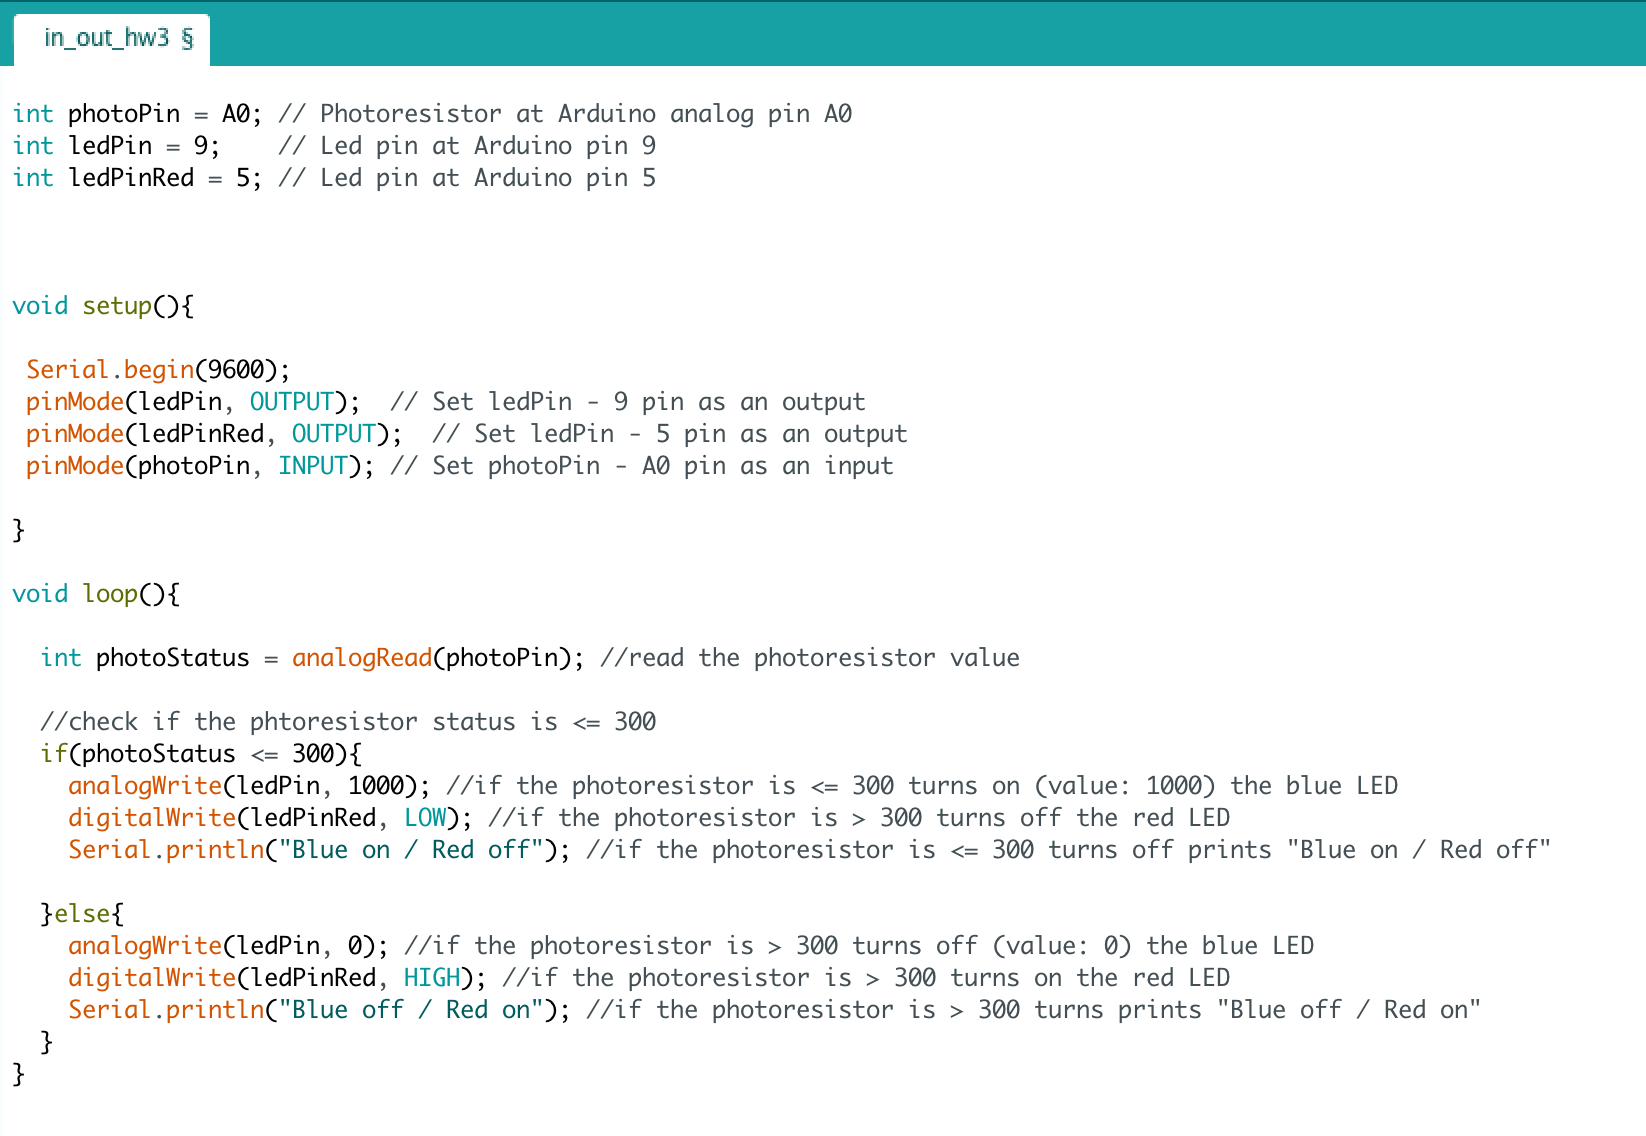
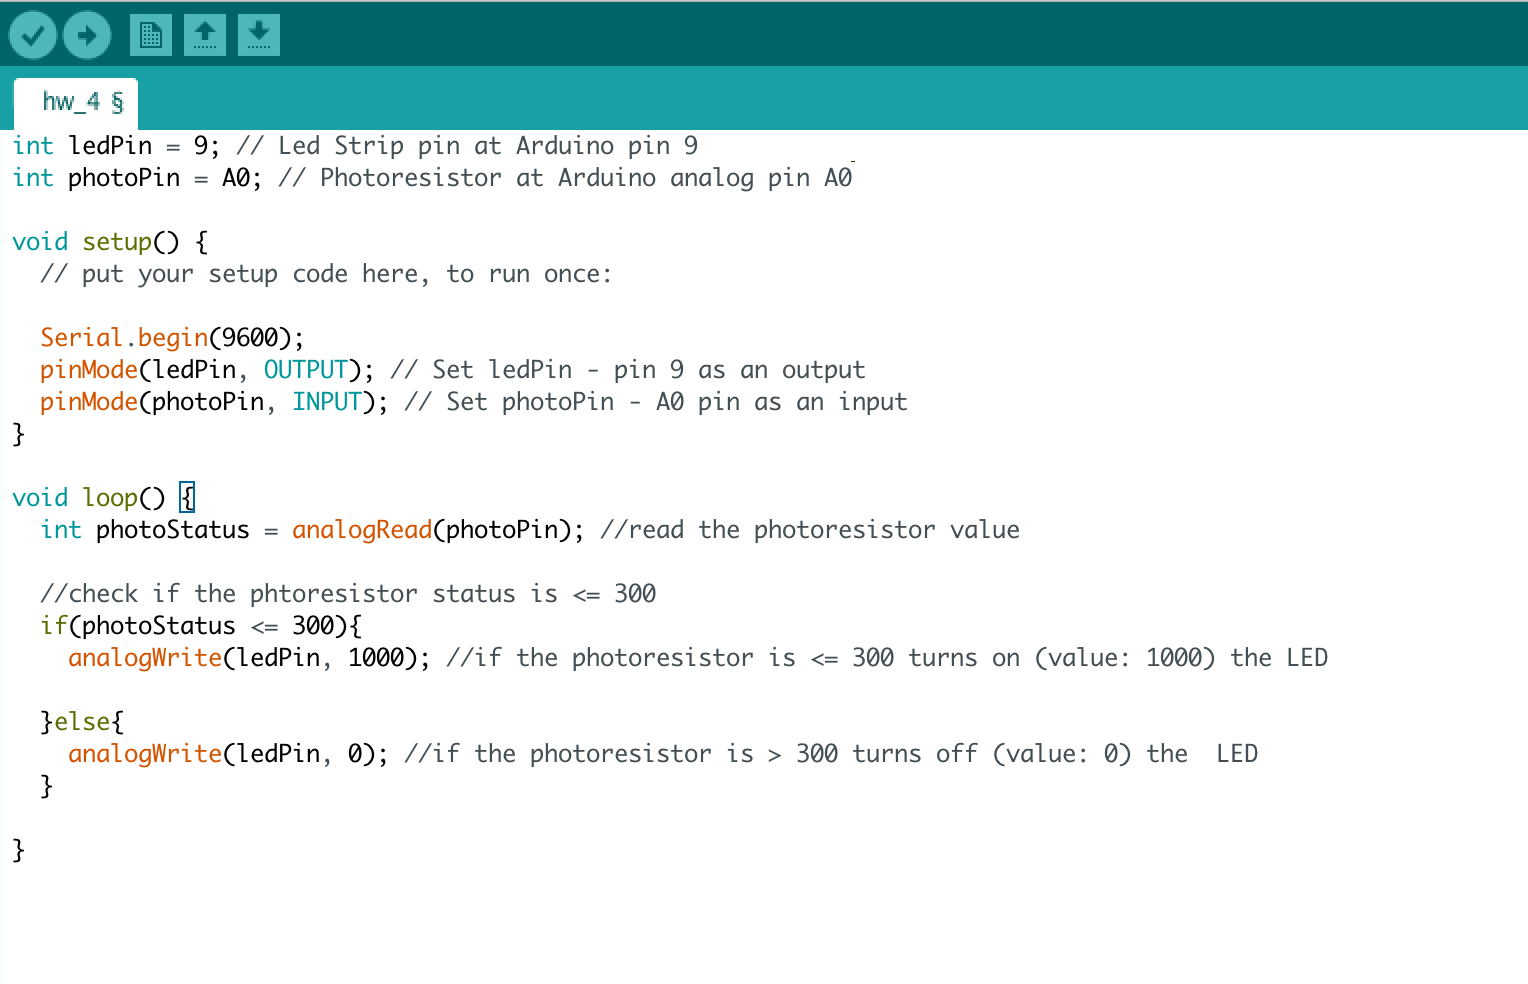
assignment4

diff --git a/assignment4.html b/assignment4.html
@@ -13,43 +13,61 @@
     <body> 
 
         <div class="header">
-            <h1>A3: Input Output!</h1>
+            <h1>A4: High(er) voltage and transistors</h1>
             <h2>Geon Soo Park</h2>
             
             <!-- Section for Schematic -->
             <section class="divider">
             <h3>Schematic</h3>
-            <p>I chose the value of 1k ohms for the red LED resistor. Because the volt from Pin 5 is 5V and the red LED has 1.8 V drop. <br> 
-            By using the Ohm's Law V = I * R: R = 3.2/0.02 which is 160 ohms, I found out that 1k would be a safe resistor for the red LED. I also chose 1k resistor for the blue LED. The voltage drop for blue LED is 3.3 V and by using the Ohm's Law which is 1.7/0.02 = 85 ohms; 1k resistor would be enough for the blue LED (if the ohms is higher than resistor then it will over burden the LED. If the resistor is too high then the flow of electricity is too low). For the photoresistor, I used 10k resistor. The maximum current allowed to go into the ground pin is 200mA and I chose 5V for the power. R = V/I = 5v/0.02A = 250a. We need a resistor bigger than 250a. Furthermore, we need to use a resistor divider to allow the high impedence Anlog input to measure the voltage. We need to use the formula: Vout=Vin*(R2/(R1+R2)) to find the value for Vout. Vin is the 5V, R2 is 10k ohm, and R1 is the photoresistor (10k ohm). 
-
-
-
+            <p><strong>For Schematic I only drew 12 LEDs instead of 30 LEDs that I used; because to make the schematic simple</strong> <br>
+            
+            For the photoresistor, I used 10k resistor. The maximum current allowed to go into the ground pin is 200mA and I chose 5V for the power. R = V/I = 5v/0.02A = 250a. We need a resistor bigger than 250a. Furthermore, we need to use a resistor divider to allow the high impedence Anlog input to measure the voltage. We need to use the formula: Vout=Vin*(R2/(R1+R2)) to find the value for Vout. Vin is the 5V, R2 is 10k ohm, and R1 is the photoresistor (10k ohm). <br>
+            
+            <br>
+            
+            For the LEDs, I used 30 LEDs. Since 300 LEDs equal to 18 watts, 30 LEDs euqal to 1.8 watts. I used 12V for the power.<br>
+            Therefore, by using the formula P = IV, we can find the current flow through the transistor. 1.8 = I(12), so I = 0.15A. Since the transistor can provide max of 0.6A of current, the circuit is safe. <br>
+                
+                <br>
+            
+            For the resistor for base (connected to pin 9), I chose 10k ohms, because even without considering the voltage drop from the LED strip; R = P (12v)/I(o.o2A) which is 600 ohms. To secure my Arduino I chose 10k ohms for the resistor. I also calculated the current flow for each LED strip. 
+            
+            
+            
 
             </p>
-            <img src=images/assignment3/scheme.png width=600>
+            <img src=images/assignment4/scheme1.jpeg width=500>
+             <img src=images/assignment4/scheme2.jpeg width=500>
             </section>
             
             <!-- Section for Circuit -->
             <section class="divider">
             <h3>Circuit</h3>
-           <p>The photoresistor is connected to the 5V and connected to the ground pin through a resistor. It is also connected to pin A0 which <br>
-            functions as a trigger the input for the photoresistor. <br> The blue LED is connected to pin 9 (because it requires analog format) through a resistor and connected to the ground pin. Lastly, the red LED is connected to Pin 5 through a resistor and then it connected to the ground pin </p>
-            <img src=images/assignment3/circuit.png width=600>
+           <p>The photoresistor is connected to the 5V and connected to the ground pin through a resistor. It is also connected to pin A0 which 
+            functions as a trigger the input for the photoresistor. <br> 
+            <br>
+            
+            The positive side of power supply (12v) is connected to the positive side of LED strip and the negative side of the power supply (12v) is connected to the ground.
+            
+            The base of transistor is connected to pin 9 through a resistor, collector part of transistor is connected to the negative side of LED strip, and the emitter part of transistor is connected to the ground. <br> </p>
+             <img src=images/assignment4/circuit1.jpeg width=500>
+            <img src=images/assignment4/circuit1.png width=500>
+           
             </section>
             
             <!-- Section for Firmware -->
             <section class="divider">
             <h3>Firmware</h3>
-            <p>Three integels are initiated (two for LEDs (#5 and #9) and one for the photoresistor (A0)). There are two outputs <br> from the Arduino board pin modes (#5 and 9) and one input for the button (A0). <br>
-            If the photoresistor is less or equal to 300, it turns off the red LED and turns the blue LED on. It also pirnts "Blue on / Red Off." <br> If the photoresistor is bigger than 300, it turns the red LED on and turns off the blue LED. It also pirnts "Blue off / Red on." </p>
-            <img src=images/assignment3/code.png width=600>
+            <p>Two integels are initiated one for LED strip (#9) and one for the photoresistor (A0)). <br>There is one output from the Arduino board pin modes (#9) and one input for the photoresistor (A0). <br>
+            If the photoresistor is less or equal to 300, it turns the LEDs on. <br> If the photoresistor is bigger than 300, it turns the LEDs off.</p>
+            <img src=images/assignment4/code.png width=600>
     
             </section>
             
             <!-- Section for Operation -->
             <section class="divider">
             <h3>Operation</h3>
-                <p>When the photoresistor value is equal or below 300 (dark) then it turns the blue LED on and prints "Blue on / Red Off." <br> If the value is bigger than 300 (bright) then turns the red LED on and prints "Blue off / Red on" </p>
+                <p>When the photoresistor value is equal or below 300 (dark) then it turns the LED strip.  <br> If the photoresistor value is over 300 (bright) then turns off the LED strip  </p>
             <img src=images/assignment4/led_strip.gif width=600>
         
             
@@ -58,6 +76,8 @@
             
             <p>
             Thank you and have a nice day!
+            
+            <br>
             </p>
         </div>
         

diff --git a/index.html b/index.html
@@ -48,6 +48,18 @@
                 </p>
             </div>
             
+            <div class="assignment">
+              <a href="assignment3.html"><h2>Assignment 4: Input Output!</h2>
+                  <img src="images/assignment3/circuit.png" width=250></a>
+                <p>
+		Assignment 4 -  High(er) voltage and transistors
+
+                </p>
+            </div>
+            
+            
+            
+            
             
              <div class="assignment">
               <a href="final_project.html"><h2>Final Project Sketches</h2>
